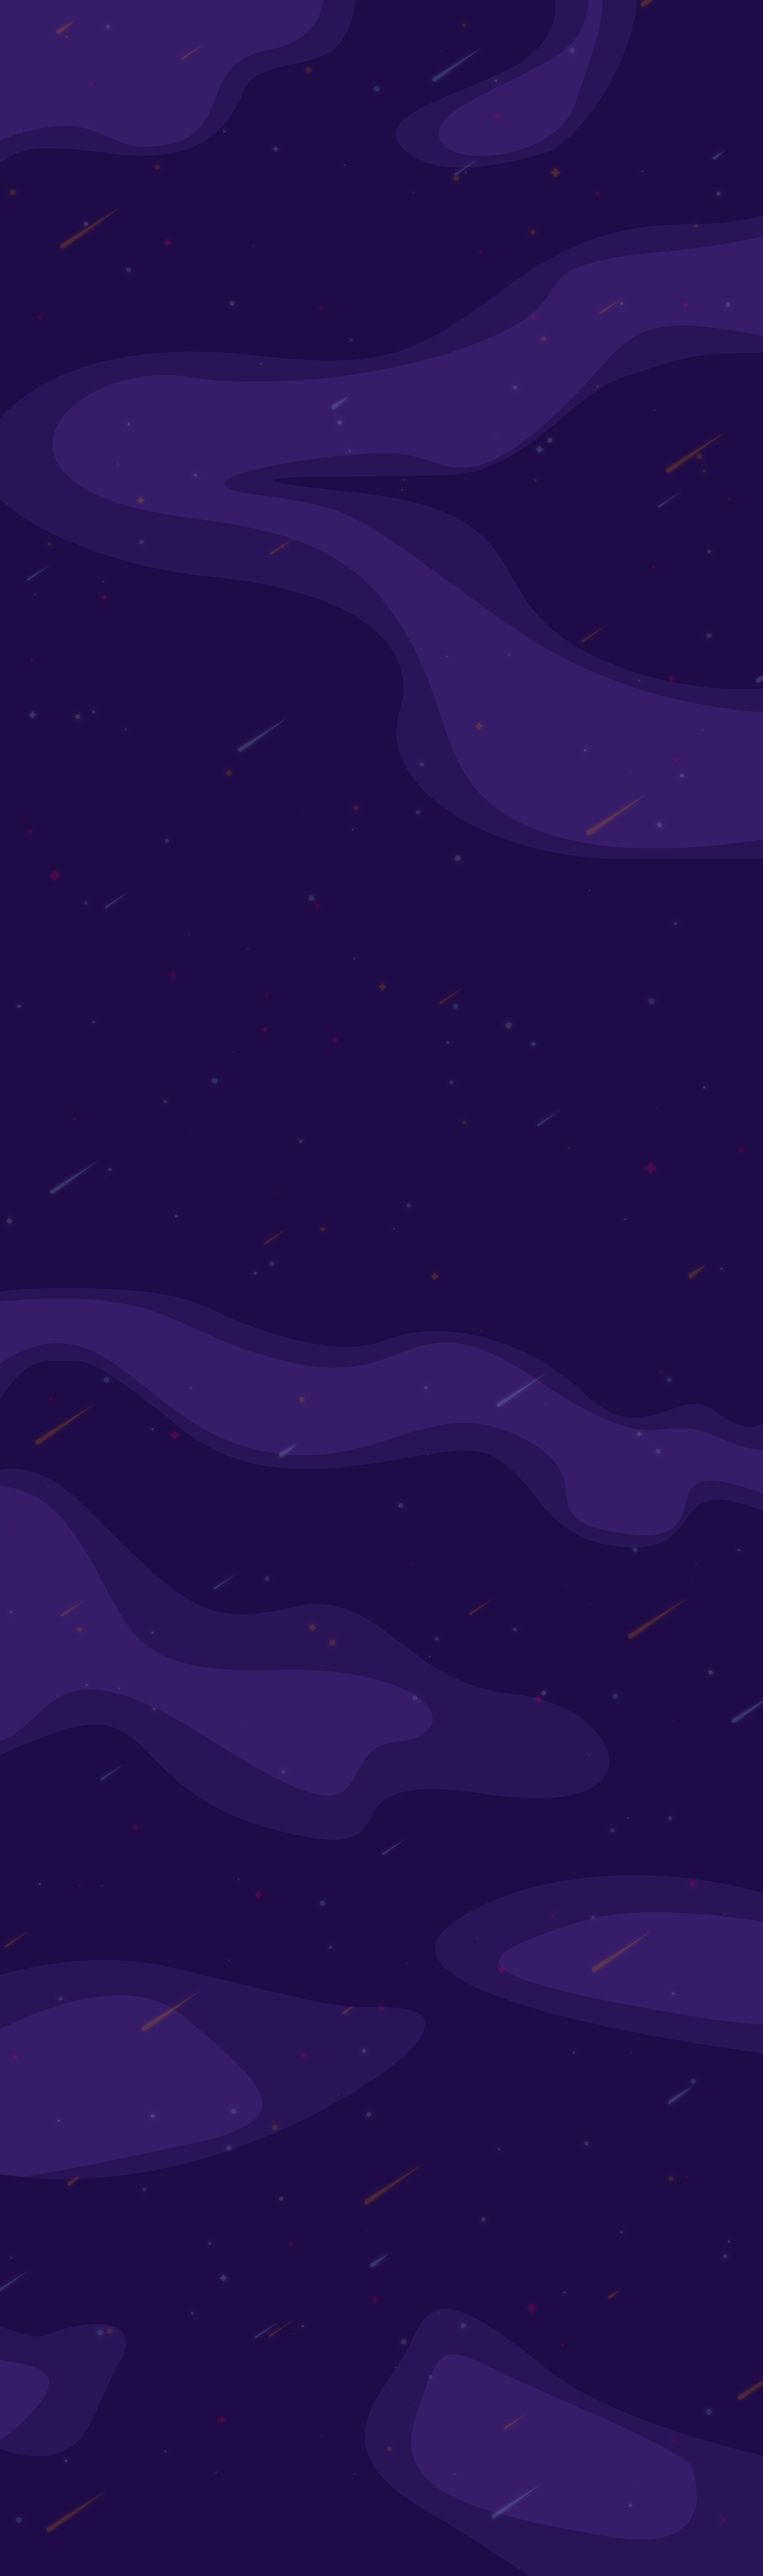
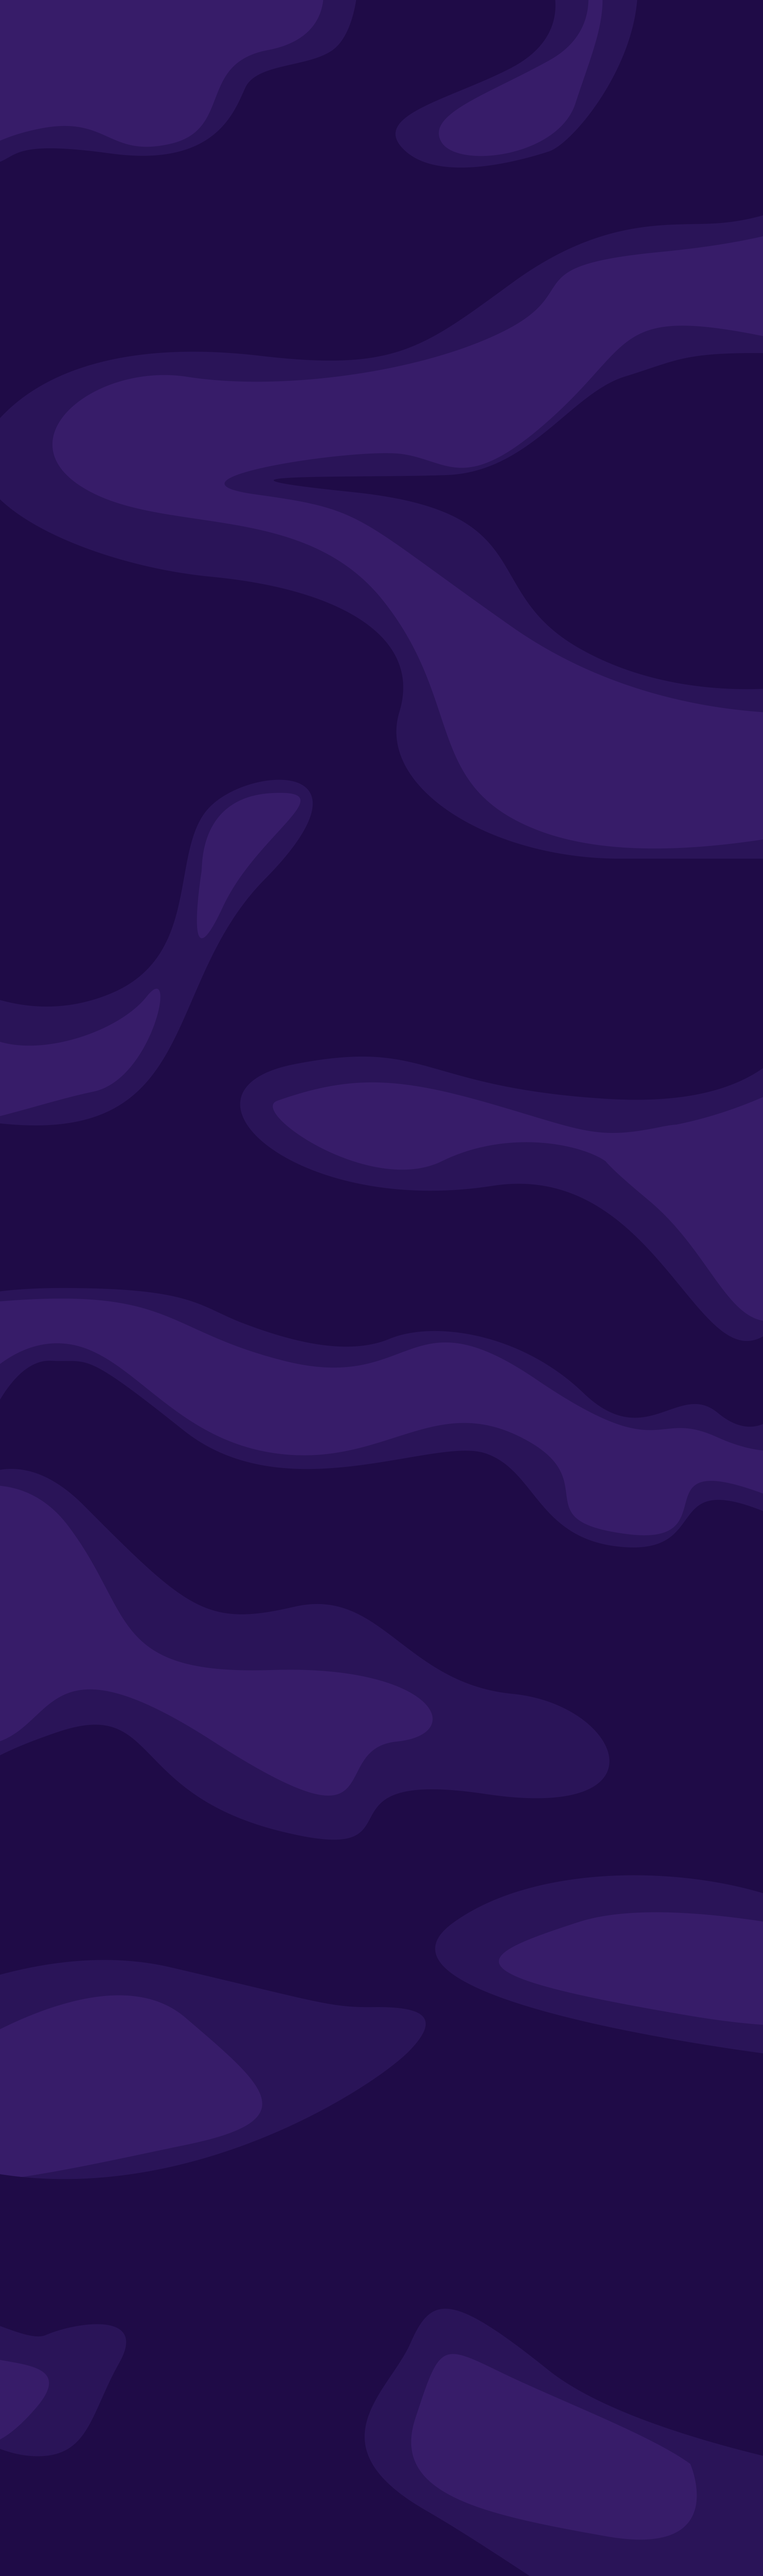
06-13

Changed region(s): [[0.3438, 0.4052, 1.0, 0.5299], [0.0, 0.3741, 0.2188, 0.4364], [0.25, 0.2806, 0.375, 0.3741]]

diff --git a/index.html b/index.html
@@ -79,7 +79,7 @@
 
         <section class="etc">
             <div class="clipPath">
-                <svg xmlns="http://www.w3.org/2000/svg" width="26%" height="26%" viewBox="0 0 245.062 191.44">
+                <svg xmlns="http://www.w3.org/2000/svg" width="20%" height="20%" viewBox="0 0 245.062 191.44">
                     <defs>
                         <clipPath id="stone_1">
                             <path d="M316.564,4980.09s-18.3-108.55,69.216-86.79,95.471,79.1,151.162,73.93,5.238,129.35-93.879,113.31S316.564,4980.09,316.564,4980.09Z" transform="translate(-314.969 -4890.44)"/>
@@ -87,7 +87,7 @@
                     </defs>
                     <image width="100%" height="130%" clip-path="url(#stone_1)" y="-10px" xlink:href="http://127.0.0.1:5500/images/hs_01.jpg"/>
                 </svg> <!--! 1 -->
-                <svg xmlns="http://www.w3.org/2000/svg" width="28%" height="28%" viewBox="0 0 211.5 186.22">
+                <svg xmlns="http://www.w3.org/2000/svg" width="22%" height="22%" viewBox="0 0 211.5 186.22">
                     <defs>
                         <clipPath id="stone_2">
                             <path d="M1323.5,5192.74s86.73-67.85,141.35-33.51,19.71,61.72,34.78,75.62-49.1,128.6-140.26,94.65S1279.47,5223.47,1323.5,5192.74Z" transform="translate(-1290.31 -5149.53)"/>
@@ -95,7 +95,7 @@
                     </defs>
                     <image width="100%" height="130%" clip-path="url(#stone_2)" y="-20px" xlink:href="http://127.0.0.1:5500/images/hs_01.jpg"/>
                 </svg> <!--! 2 -->
-                <svg xmlns="http://www.w3.org/2000/svg" width="25%" height="25%" viewBox="0 0 229.128 189.74">
+                <svg xmlns="http://www.w3.org/2000/svg" width="18%" height="18%" viewBox="0 0 229.128 189.74">
                     <defs>
                         <clipPath id="stone_3">
                             <path d="M981.78,5097.49c22.37-80,88.4-134.49,166-112.02s80.29,84.79-2.28,141.69S954.769,5194.1,981.78,5097.49Z" transform="translate(-977.562 -4980.38)"/>
@@ -103,7 +103,7 @@
                     </defs>
                     <image width="100%" height="130%" clip-path="url(#stone_3)" y="-10px" xlink:href="http://127.0.0.1:5500/images/hs_01.jpg"/>
                 </svg> <!--! 3 -->
-                <svg xmlns="http://www.w3.org/2000/svg" width="24%" height="24%" viewBox="0 0 202 206.5">
+                <svg xmlns="http://www.w3.org/2000/svg" width="20%" height="20%" viewBox="0 0 202 206.5">
                     <defs>
                         <clipPath id="stone_4">
                             <path d="M622.551,5313.65s-92.558-38.12-8.076-109.03,157.225-90.12,158.948-29.1-56.874,63.4-58.791,89.83,92.237-7.91,59.286,47.86S692.3,5341.15,622.551,5313.65Z" transform="translate(-578.906 -5138.97)"/>
@@ -111,7 +111,7 @@
                     </defs>
                     <image width="110%" height="140%" clip-path="url(#stone_4)" y="-45px" xlink:href="http://127.0.0.1:5500/images/hs_01.jpg"/>
                 </svg> <!--! 4 -->
-                <svg xmlns="http://www.w3.org/2000/svg" width="30%" height="30%" viewBox="0 0 318.16 262.82">
+                <svg xmlns="http://www.w3.org/2000/svg" width="21%" height="21%" viewBox="0 0 318.16 262.82">
                     <defs>
                         <clipPath id="stone_5">
                             <path d="M762.951,4800.34c42.8-54.35,119.744-142.47,201.842-138.09s125.507,112.37,54.927,149.7-66.772,3.33-128.769,78.42S676.427,4910.21,762.951,4800.34Z" transform="translate(-737 -4662.09)"/>
@@ -119,7 +119,7 @@
                     </defs>
                     <image width="100%" height="130%" clip-path="url(#stone_5)" y="-15px" xlink:href="http://127.0.0.1:5500/images/hs_01.jpg"/>
                 </svg> <!--! 5 -->
-                <svg xmlns="http://www.w3.org/2000/svg"width="27%" height="27%" viewBox="0 0 283.406 234.97">
+                <svg xmlns="http://www.w3.org/2000/svg"width="20%" height="20%" viewBox="0 0 283.406 234.97">
                     <defs>
                         <clipPath id="stone_6">
                             <path d="M420.012,4422.4s64.9-64.31,130.366-.34,144.127,114.71,119.339,148.26-68.655,67.45-147.532,56.17S339.665,4481.55,420.012,4422.4Z" transform="translate(-390.969 -4393.72)"/>
@@ -127,7 +127,7 @@
                     </defs>
                     <image width="100%" height="130%" clip-path="url(#stone_6)" y="-15px" xlink:href="http://127.0.0.1:5500/images/hs_01.jpg"/>
                 </svg> <!--! 6 -->
-                <svg xmlns="http://www.w3.org/2000/svg" width="24%" height="24%" viewBox="0 0 268.69 172.35">
+                <svg xmlns="http://www.w3.org/2000/svg" width="22%" height="22%" viewBox="0 0 268.69 172.35">
                     <defs>
                         <clipPath id="stone_7">
                             <path d="M1473.93,4445.17c-14.88,64.34-102.45,124.68-163.6,107.11s-43.83,11.18-87.76-7.41,7.93-108.05,117.67-146.54S1484.18,4400.85,1473.93,4445.17Z" transform="translate(-1206.97 -4383.03)"/>
@@ -135,14 +135,14 @@
                     </defs>
                     <image width="100%" height="160%" clip-path="url(#stone_7)" y="-50px" xlink:href="http://127.0.0.1:5500/images/hs_01.jpg"/>
                 </svg> <!--! 7 -->
-                <svg xmlns="http://www.w3.org/2000/svg" width="28%" height="28%" viewBox="0 0 358.53 247.97">
+                <svg xmlns="http://www.w3.org/2000/svg" width="18%" height="18%" viewBox="0 0 358.53 247.97">
                     <defs>
                         <clipPath id="stone_8">
                             <path d="M1252.5,4774.18c22-41.88,179.31-41.04,285.45,69.21s46.23,117.49,15.08,144.22-203.37-5.47-260.59-105.37S1229.12,4818.67,1252.5,4774.18Z" transform="translate(-1239.72 -4748.62)"/>
                         </clipPath>
                     </defs>
                     <image width="100%" height="150%" clip-path="url(#stone_8)" y="-10px" xlink:href="http://127.0.0.1:5500/images/hs_01.jpg"/>
-                </svg> <!--! 8 -->
+                </svg> <!--! 8zlo -->
             </div>
         </section>
     </main>
@@ -150,12 +150,9 @@
     <footer>
         <h2>EMAIL</h2>
         <p>khs990920@naver.com</p>
-
-        <img src="./images/planet_1.png" alt="planet">
-        <img src="./images/planet_2.png" alt="planet">
-        <img src="./images/planet_3.png" alt="planet">
-        <img src="./images/planet_4.png" alt="planet">
-        <img src="./images/footer.png" alt="© 2022 KIMHANSOL">
+        <div class="copyright">
+            <img src="./images/footer.png" alt="© 2022 KIMHANSOL" class="footer">
+        </div>
     </footer>
 </body>
 </html>

diff --git a/scss/index.scss b/scss/index.scss
@@ -4,13 +4,12 @@
 
 body {
     width: 100%;
-    height: 100vh;
+    height: 100%;
     background: url(../images/background_mo.png) no-repeat;
-    background-size: 100%;
+    background-size: 100% 100%;
 
     @include responsive(tablet-size) {
         background: url(../images/background.png) no-repeat;
-        background-size: 100%;
     }
 
     header {
@@ -99,7 +98,7 @@ body {
             &::before {
                 position: absolute;
                 content: "";
-                top: 8%;
+                top: 10%;
                 left: 50%;
                 width: 18%;
                 height: 18%;
@@ -201,7 +200,8 @@ body {
             position: relative;
             width: 100%;
             height: 100vh;
-            background-color: rgba(0, 255, 255, 0.5);
+            background-color: #1f0b47;
+            z-index: -1;
 
             .skill_img {
                 width: 100%;
@@ -295,46 +295,91 @@ body {
 
                     &:nth-child(2) {
                         position: absolute;
-                        top: 12%;
-                        left: 55%;
+                        top: 13%;
+                        left: 54%;
                     }
 
                     &:nth-child(3) {
                         position: absolute;
-                        top: 23%;
-                        left: 15%;
+                        top: 28%;
+                        left: 32%;
                     }
 
                     &:nth-child(4) {
                         position: absolute;
                         top: 35%;
-                        left: 50%;
+                        left: 68%;
                     }
 
                     &:nth-child(5) {
                         position: absolute;
-                        top: 40%;
-                        left: 16%;
+                        top: 47%;
+                        left: 24%;
                     }
 
                     &:nth-child(6) {
                         position: absolute;
-                        top: 50%;
-                        left: 60%;
+                        top: 58%;
+                        left: 53%;
                     }
 
                     &:nth-child(7) {
                         position: absolute;
-                        top: 60%;
-                        left: 20%;
+                        top: 67%;
+                        left: 10%;
                     }
 
                     &:last-child {
                         position: absolute;
-                        top: 60%;
-                        left: 80%;
+                        top: 72%;
+                        left: 61%;
                     }
                 }
+            }
+        }
+    }
+
+    footer{
+        position: relative;
+        width: 100%;
+        height: 100vh;
+        text-align: center;
+        padding-top: 50%;
+        background-color: rgba(255, 99, 71, 0.5);
+        background: url(../images/planet_fo.png) no-repeat right bottom;
+        background-size: 95%;
+
+        h2 {
+            font: {
+                size: 1.6em;
+                weight: 700;
+            }
+            color: $font-color;
+            margin-bottom: 15px;
+        }
+
+        p {
+            font: {
+                size: 1em;
+                weight: 500;
+            }
+            color: $font-color;
+            margin-bottom: 18px;
+        }
+
+        .copyright {
+            position: absolute;
+            bottom: 0%;
+            left: 50%;
+            width: 150%;
+            background-color: rgba(0, 255, 255, 0.5);
+            
+            img {
+                width: 100%;
+                position: absolute;
+                bottom: 0%;
+                left: 50%;
+                margin-left: -100%;
             }
         }
     }

diff --git a/css/index.css b/css/index.css
@@ -50,15 +50,14 @@ footer {
 
 body {
   width: 100%;
-  height: 100vh;
+  height: 100%;
   background: url(../images/background_mo.png) no-repeat;
-  background-size: 100%;
+  background-size: 100% 100%;
 }
 
 @media screen and (min-width: 768px) {
   body {
     background: url(../images/background.png) no-repeat;
-    background-size: 100%;
   }
 }
 
@@ -150,7 +149,7 @@ body main .hello {
 body main .hello::before {
   position: absolute;
   content: "";
-  top: 8%;
+  top: 10%;
   left: 50%;
   width: 18%;
   height: 18%;
@@ -251,7 +250,8 @@ body main .skill {
   position: relative;
   width: 100%;
   height: 100vh;
-  background-color: rgba(0, 255, 255, 0.5);
+  background-color: #1f0b47;
+  z-index: -1;
 }
 
 body main .skill .skill_img {
@@ -344,43 +344,84 @@ body main .etc .clipPath svg:first-child {
 
 body main .etc .clipPath svg:nth-child(2) {
   position: absolute;
-  top: 12%;
-  left: 55%;
+  top: 13%;
+  left: 54%;
 }
 
 body main .etc .clipPath svg:nth-child(3) {
   position: absolute;
-  top: 23%;
-  left: 15%;
+  top: 28%;
+  left: 32%;
 }
 
 body main .etc .clipPath svg:nth-child(4) {
   position: absolute;
   top: 35%;
-  left: 50%;
+  left: 68%;
 }
 
 body main .etc .clipPath svg:nth-child(5) {
   position: absolute;
-  top: 40%;
-  left: 16%;
+  top: 47%;
+  left: 24%;
 }
 
 body main .etc .clipPath svg:nth-child(6) {
   position: absolute;
-  top: 50%;
-  left: 60%;
+  top: 58%;
+  left: 53%;
 }
 
 body main .etc .clipPath svg:nth-child(7) {
   position: absolute;
-  top: 60%;
-  left: 20%;
+  top: 67%;
+  left: 10%;
 }
 
 body main .etc .clipPath svg:last-child {
   position: absolute;
-  top: 60%;
-  left: 80%;
+  top: 72%;
+  left: 61%;
+}
+
+body footer {
+  position: relative;
+  width: 100%;
+  height: 100vh;
+  text-align: center;
+  padding-top: 50%;
+  background-color: rgba(255, 99, 71, 0.5);
+  background: url(../images/planet_fo.png) no-repeat right bottom;
+  background-size: 95%;
+}
+
+body footer h2 {
+  font-size: 1.6em;
+  font-weight: 700;
+  color: #fff8fc;
+  margin-bottom: 15px;
+}
+
+body footer p {
+  font-size: 1em;
+  font-weight: 500;
+  color: #fff8fc;
+  margin-bottom: 18px;
+}
+
+body footer .copyright {
+  position: absolute;
+  bottom: 0%;
+  left: 50%;
+  width: 150%;
+  background-color: rgba(0, 255, 255, 0.5);
+}
+
+body footer .copyright img {
+  width: 100%;
+  position: absolute;
+  bottom: 0%;
+  left: 50%;
+  margin-left: -100%;
 }
 /*# sourceMappingURL=index.css.map */

diff --git a/scss/mixin.scss b/scss/mixin.scss
@@ -1,10 +1,4 @@
-@mixin wrapper {
-    width: 100%;
-    max-width: 1320px;
-    padding: 0 20px;
-    margin: 0 auto;
-    background-color: tomato;
-}
+
 
 @mixin responsive($break) {
     @if $break == mobile-size {
